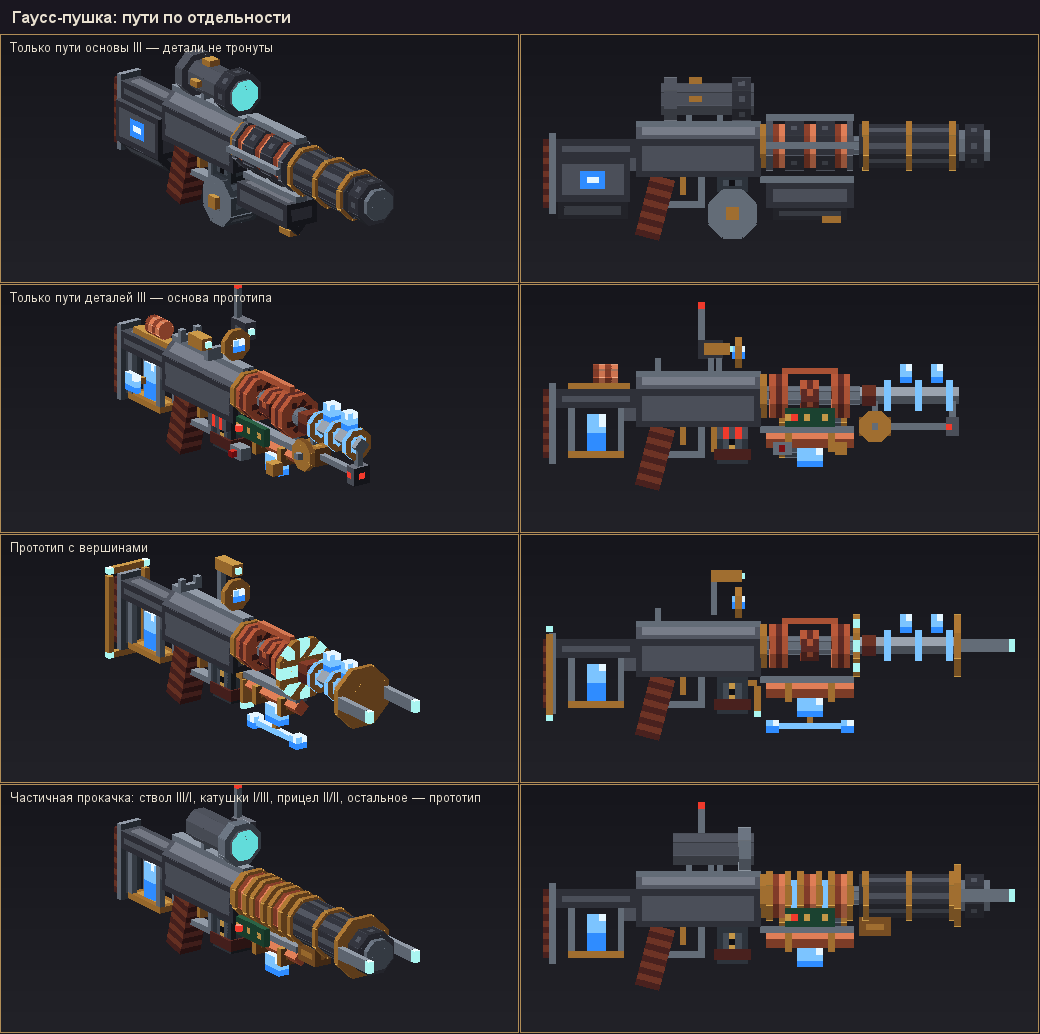
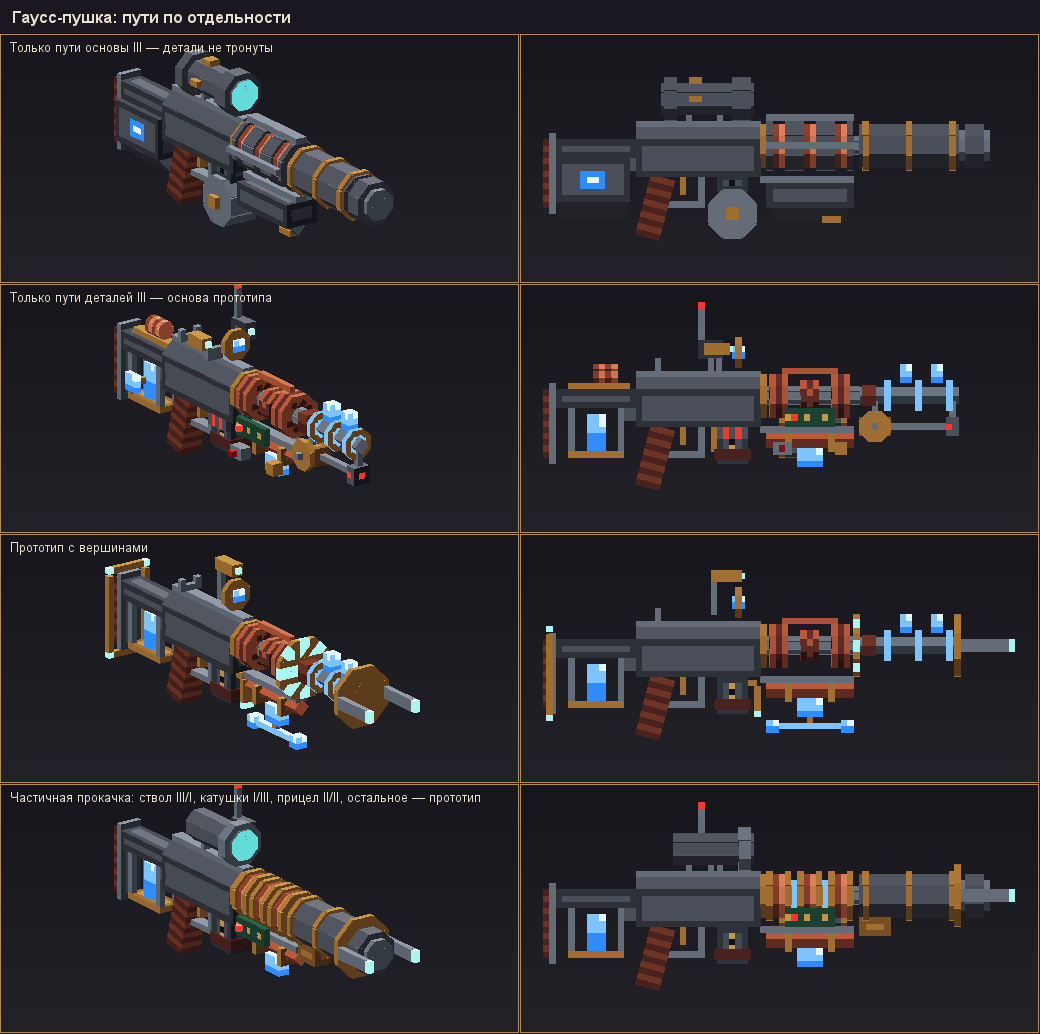
Модели: гаусс — без чёрных пикселей в стыках восьмигранников
Тон повёрнутых брусков считается по настоящему направлению грани,
обводка на них убрана, у остальных граней она не темнее тона 4.

diff --git a/tools/models/GaussModel.java b/tools/models/GaussModel.java
@@ -525,6 +525,19 @@ public class GaussModel {
             case EAST, WEST -> 2;
             default -> 3;
         };
+        // Повёрнутый брусок: тон по тому, куда грань смотрит на самом деле, а не по её имени.
+        // Иначе «нижняя» грань бруска восьмигранника оказывается сбоку и даёт чёрные полосы в стыках.
+        if (q.axis != 0 && !(q.round && isCap(q, f))) {
+            double[] n = switch (f) {
+                case UP -> turn(q, 0, 1, 0, false);
+                case DOWN -> turn(q, 0, -1, 0, false);
+                case EAST -> turn(q, 1, 0, 0, false);
+                case WEST -> turn(q, -1, 0, 0, false);
+                case NORTH -> turn(q, 0, 0, -1, false);
+                case SOUTH -> turn(q, 0, 0, 1, false);
+            };
+            base = n[1] > 0.9 ? 1 : n[1] > -0.3 ? 2 : n[1] > -0.9 ? 3 : 4;
+        }
         // Место на грани: a — по горизонтали, b — по вертикали.
         int a, b, A, B;
         switch (f) {
@@ -533,8 +546,9 @@ public class GaussModel {
             default -> { a = x; b = y; A = w; B = h; }
         }
         boolean capFace = q.round && (isCap(q, f));
-        boolean edge = !capFace && Math.min(A, B) >= 3 && (a == 0 || b == 0 || a == A - 1 || b == B - 1);
-        int t = base + (edge ? 1 : 0);
+        boolean edge = !q.round && q.axis == 0 && Math.min(A, B) >= 3 && (a == 0 || b == 0 || a == A - 1 || b == B - 1);
+        // Обводка грани не темнее тона 4: тон 5 на стыках соседних деталей читался чёрными пикселями.
+        int t = edge ? Math.min(4, base + 1) : base;
         boolean side = f != Face.UP && f != Face.DOWN;
         boolean midA = A % 2 == 1 ? a == A / 2 : (a == A / 2 || a == A / 2 - 1);
         boolean midB = B % 2 == 1 ? b == B / 2 : (b == B / 2 || b == B / 2 - 1);
